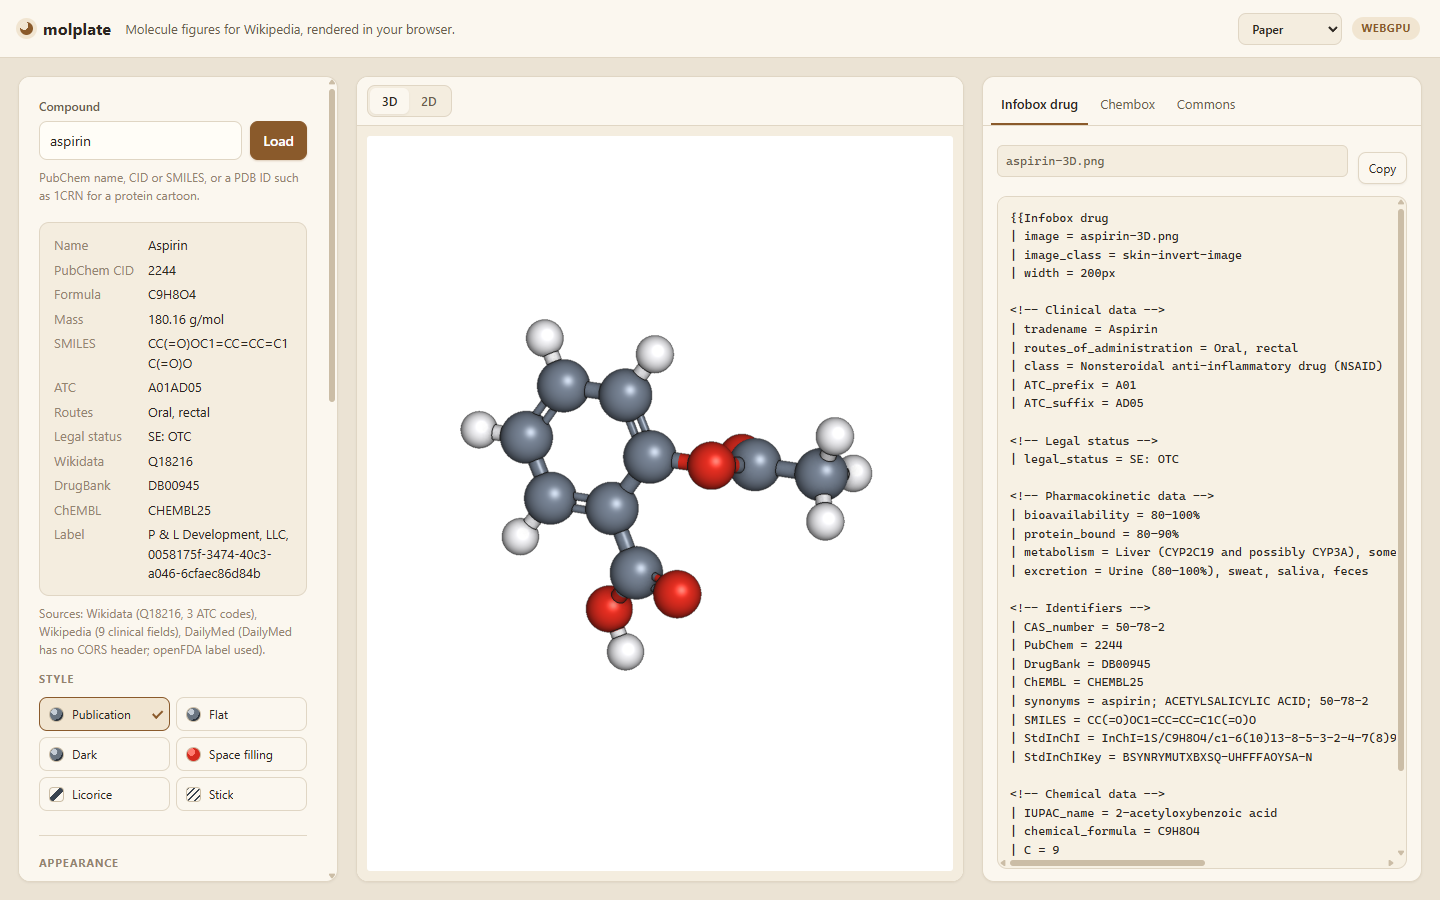
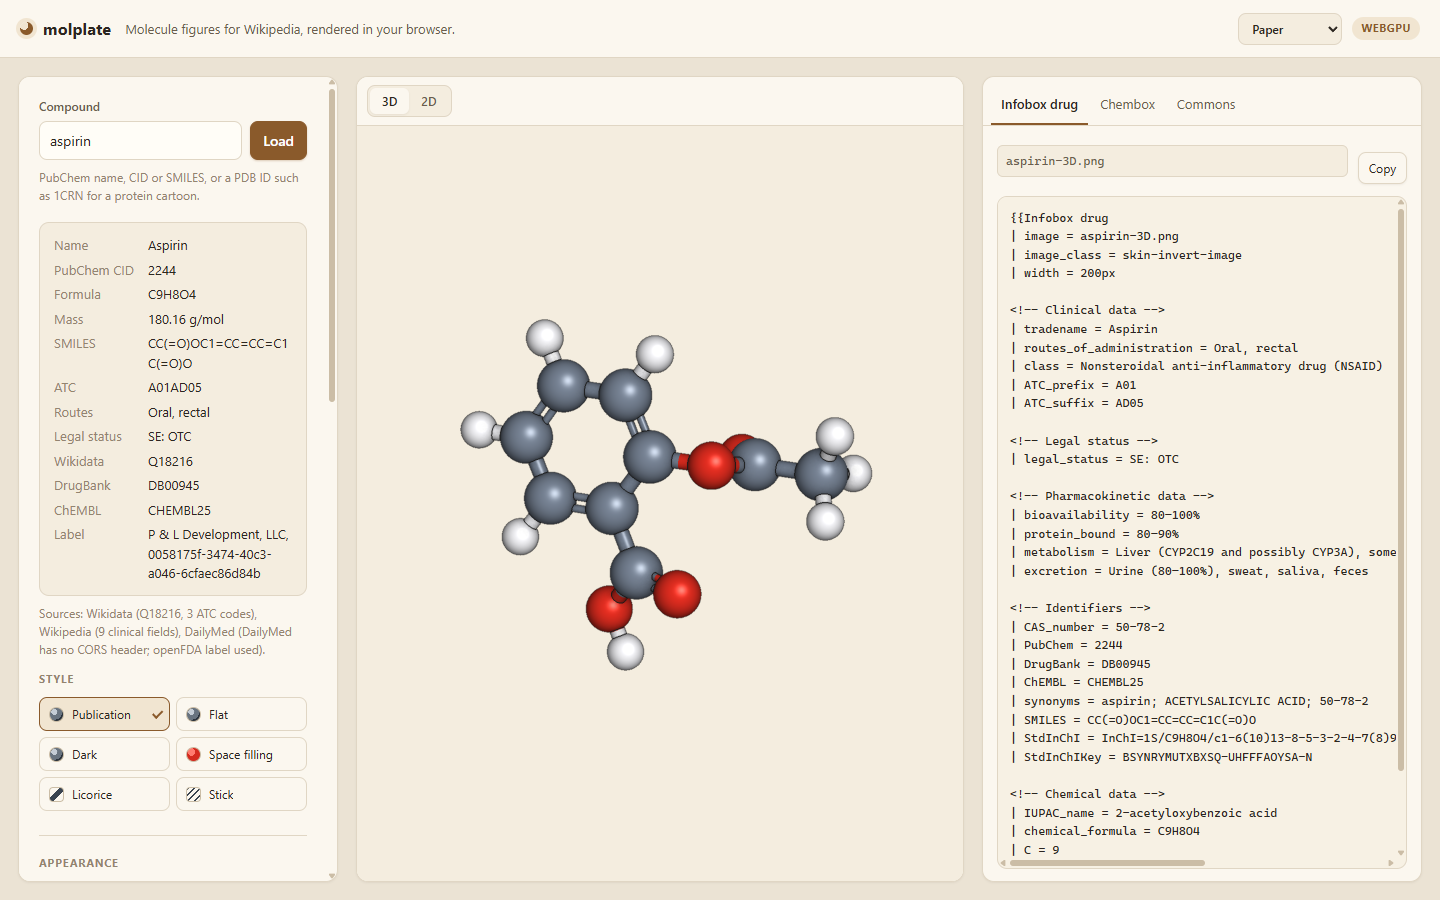
Paint the stage with the theme tint
Keep the export background separate from the live stage.
Remove the 2D background rectangle.
Recolour the dark 2D bonds in the inline copy.

diff --git a/web/src/renderer.ts b/web/src/renderer.ts
@@ -71,7 +71,11 @@ interface PatinaeViewer {
   init(): Promise<void>;
   loadData(data: Uint8Array, name: string, format: string): Receipt;
   execute(command: string): Promise<Receipt>;
-  exportPng(options: { width?: number; height?: number; transparent?: boolean }): Promise<Blob>;
+  exportPng(options: {
+    width?: number;
+    height?: number;
+    transparent?: boolean;
+  }): Promise<Blob>;
   countAtoms(selection?: string): number;
   getSequenceData(): { chain_id: string; residues: unknown[] }[];
   destroy(): void;
@@ -265,6 +269,8 @@ export class Renderer {
   // Last values of the settings whose change reloads a shader or a pipeline. They start
   // at the renderer's defaults, so the first look does not reload a shader for nothing.
   private lastBackground = "";
+  /** Theme tint for the live stage; the export keeps its own background. */
+  private stageTint: string | null = null;
   private lastShading = "classic";
   private lastAo = false;
   private lastSilhouettes = false;
@@ -399,7 +405,7 @@ export class Renderer {
    */
   async applyAppearance(look: LookSpec): Promise<void> {
     const appearance = look.appearance;
-    await this.setBackgroundHex(appearance.background);
+    await this.setBackgroundHex(this.stageTint ?? appearance.background);
 
     await this.run(`set stick_transparency, ${decimal(appearance.stick_transparency)}`);
     await this.run(`set sphere_transparency, ${decimal(appearance.sphere_transparency)}`);
@@ -457,6 +463,18 @@ export class Renderer {
   /** `"perspective"` or `"orthographic"`. patinae spells the latter `orthoscopic`. */
   async setProjection(mode: string): Promise<void> {
     await this.run(`set orthoscopic, ${mode === "orthographic" ? 1 : 0}`);
+  }
+
+  /**
+   * Set the live stage background to the active theme tint.
+   *
+   * The patinae surface is opaque, so the view cannot be alpha-transparent. This colour
+   * matches the page behind the canvas, which gives the same visual result.
+   */
+  setStageTint(hex: string): void {
+    if (this.stageTint === hex) return;
+    this.stageTint = hex;
+    void this.setBackgroundHex(hex).catch(() => undefined);
   }
 
   /** Set the background from a colour input value. */
@@ -552,11 +570,31 @@ export class Renderer {
    * With only a width, its aspect follows the *live* canvas, so callers that care about
    * the shape pass both dimensions.
    */
-  async exportPng(options: { width: number; height: number; transparent: boolean }): Promise<Blob> {
-    // A build task may still be finishing; a couple of frames is what makes the
-    // difference between the new scene and the previous one in the image.
-    await frames(SETTLE_FRAMES);
-    return this.viewer.exportPng(options);
+  async exportPng(options: {
+    width: number;
+    height: number;
+    transparent: boolean;
+    background: string;
+  }): Promise<Blob> {
+    // The live stage is painted with the theme tint. The export uses the figure's own
+    // background, so swap it in for the render and restore the tint afterwards.
+    const stage = this.stageTint;
+    await this.setBackgroundHex(options.transparent ? "#000000" : options.background);
+    try {
+      // A build task may still be finishing; a couple of frames is what makes the
+      // difference between the new scene and the previous one in the image.
+      await frames(SETTLE_FRAMES);
+      return await this.viewer.exportPng({
+        width: options.width,
+        height: options.height,
+        transparent: options.transparent,
+      });
+    } finally {
+      if (stage !== null) {
+        this.stageTint = null;
+        this.setStageTint(stage);
+      }
+    }
   }
 
   destroy(): void {

diff --git a/web/src/main.ts b/web/src/main.ts
@@ -38,7 +38,7 @@ import { bindKeyboard } from "./keyboard.js";
 import { enrichCompound, LookupError, loadCompound } from "./pubchem.js";
 import { ProteinError, loadProtein, pdbIdOf } from "./protein.js";
 import { Renderer, RendererUnavailable } from "./renderer.js";
-import { bindTheme } from "./theme.js";
+import { bindTheme, stageTint } from "./theme.js";
 import "./styles.css";
 import "./stage.css";
 
@@ -97,6 +97,7 @@ async function boot(): Promise<void> {
   // is in use, and the note explains what a figure needs, rather than implying a
   // fallback that does not exist.
   dom.engine.textContent = "WebGPU";
+  state.viewer.setStageTint(stageTint());
   applyMode();
 
   // Compile the cartoon pipelines before the first request. The first cartoon frame
@@ -621,6 +622,9 @@ function withTimeout<T>(promise: Promise<T>, ms: number, message: string): Promi
 }
 
 bindTheme();
+document.addEventListener("themechange", () => {
+  state.viewer?.setStageTint(stageTint());
+});
 bindAppearance();
 bindExport();
 bindKeyboard({

diff --git a/web/src/stage.css b/web/src/stage.css
@@ -73,10 +73,10 @@
   width: 100%;
   min-height: 0;
   padding: 10px;
-  background: var(--surface-2);
+  background: var(--stage-tint);
 }
 
-/* The 2D drawing scales to the stage without cropping, on a paper-like card. */
+/* The 2D drawing scales to the stage without cropping, on the theme tint. */
 .depiction {
   flex: 1;
   min-height: 0;
@@ -84,16 +84,23 @@
   place-items: center;
   padding: 18px;
   overflow: auto;
-  background: var(--surface-2);
+  background: var(--stage-tint);
 }
 
 .depiction svg {
   max-width: 100%;
   max-height: 100%;
   height: auto;
-  border-radius: 3px;
-  background: #ffffff;
-  box-shadow: var(--shadow-2);
+  background: transparent;
+}
+
+/* RDKit draws black bonds and black atom labels. On a dark tint they become the ink. */
+[data-theme="dark"] .depiction svg path[style*="stroke:#000000"] {
+  stroke: var(--ink) !important;
+}
+
+[data-theme="dark"] .depiction svg path[fill="#000000"] {
+  fill: var(--ink) !important;
 }
 
 .stage canvas {

diff --git a/web/src/rdkit.ts b/web/src/rdkit.ts
@@ -12,7 +12,7 @@ interface RdkitMol {
   has_coords(): number;
   remove_hs_in_place(): boolean;
   set_new_coords(useCoordGen?: boolean): boolean;
-  get_svg(width: number, height: number): string;
+  get_svg_with_highlights(details: string): string;
   delete(): void;
 }
 
@@ -96,7 +96,10 @@ export async function depictWithRdkit(
     // PubChem records carry explicit hydrogens; a skeletal drawing keeps them implicit.
     mol.remove_hs_in_place();
     mol.set_new_coords(true);
-    return mol.get_svg(width, height);
+    // No white rectangle: the page tint shows through the drawing.
+    return mol.get_svg_with_highlights(
+      JSON.stringify({ width, height, clearBackground: false }),
+    );
   } finally {
     mol.delete();
   }

diff --git a/web/src/theme.ts b/web/src/theme.ts
@@ -31,6 +31,16 @@ function resolved(choice: ThemeChoice): ThemeName {
 
 function apply(choice: ThemeChoice): void {
   document.documentElement.dataset.theme = resolved(choice);
+  // The stage canvas cannot read CSS, so it listens for this event.
+  document.dispatchEvent(new CustomEvent("themechange"));
+}
+
+/** The colour behind the figure, from the active theme. The 3D canvas copies it. */
+export function stageTint(): string {
+  const value = getComputedStyle(document.documentElement)
+    .getPropertyValue("--stage-tint")
+    .trim();
+  return value === "" ? "#ffffff" : value;
 }
 
 /** Wire the picker and the OS preference. A stored choice wins over the OS. */

diff --git a/web/src/styles.css b/web/src/styles.css
@@ -11,6 +11,7 @@
   --surface: #ffffff;
   --surface-2: #f5f7fa;
   --surface-3: #eceff4;
+  --stage-tint: #f5f7fa;
   --field: #ffffff;
   --canvas: #f1f4f8;
   --code: #fbfcfe;
@@ -39,6 +40,7 @@
   --surface: #131a22;
   --surface-2: #0f151c;
   --surface-3: #1b242e;
+  --stage-tint: #0f151c;
   --field: #0d131a;
   --canvas: #090d12;
   --code: #0c1218;
@@ -64,6 +66,7 @@
   --surface: #fbf7ef;
   --surface-2: #f4eddf;
   --surface-3: #ece2d1;
+  --stage-tint: #f4eddf;
   --field: #fffdf7;
   --canvas: #ebe3d4;
   --code: #f7f1e4;

diff --git a/web/index.html b/web/index.html
@@ -81,7 +81,7 @@
               </select>
             </div>
             <input id="gradient-bottom" type="color" value="#dfe7f2" aria-label="Gradient end colour" hidden />
-            <p class="hint">A gradient applies to the exported PNG. The live view keeps the solid colour.</p>
+            <p class="hint">The background sets the exported PNG. The stage shows the theme tint.</p>
           </div>
 
           <div class="control">

diff --git a/web/src/figure.ts b/web/src/figure.ts
@@ -107,6 +107,7 @@ async function exportPng(): Promise<void> {
       width: renderWidth,
       height: renderHeight,
       transparent: transparent || gradient !== null,
+      background: state.look?.appearance.background ?? dom.background.value,
     });
     const rendered = new Uint8Array(await blob.arrayBuffer());
     const [red, green, blue] = hexToBytes(state.look?.appearance.background ?? dom.background.value);

diff --git a/crates/molplate_core/src/depict.rs b/crates/molplate_core/src/depict.rs
@@ -259,7 +259,6 @@ pub fn depiction_svg(text: &str, name: &str, options: DepictionOptions) -> Resul
         escape_xml(name)
     );
     let _ = writeln!(svg, "<title>{}</title>", escape_xml(name));
-    let _ = writeln!(svg, r##"<rect width="{width}" height="{height}" fill="#ffffff"/>"##);
     let _ = writeln!(
         svg,
         r##"<g stroke="#1a1a1a" stroke-width="{bond_width:.2}" stroke-linecap="round" stroke-linejoin="round" fill="none">"##

diff --git a/docs/SPEC.md b/docs/SPEC.md
@@ -29,7 +29,7 @@ which allow cross-origin requests; nothing is uploaded anywhere.
 | Lookup by name, CID or SMILES | Name and CID resolve directly; a SMILES is resolved through PubChem's structure search, so only compounds PubChem knows work |
 | Protein lookup | A four-character PDB ID (for example `1CRN`) or a `pdb:` prefix fetches the entry from RCSB and draws a cartoon |
 | 3D structure | PubChem's 3D record; a compound without one falls back to its 2D record and says so |
-| 2D depiction | RDKit's MinimalLib draws the skeletal SVG with canonical layout, stereo and element colours. The 7.39 MB module loads on first 2D use. A Rust V2000 parser is the fallback |
+| 2D depiction | RDKit's MinimalLib draws the skeletal SVG with canonical layout, stereo and element colours. The SVG has no background. The 7.39 MB module loads on first 2D use. A Rust V2000 parser is the fallback |
 | Styles | Publication, Flat and Dark finishes of ball-and-stick; space filling, licorice and stick; protein cartoons by secondary structure or chain |
 | Appearance | Background, stick and sphere size, transparency, ambient and direct light, specular, ambient occlusion, outline, depth cue, per-element colour overrides |
 | Navigation | Viewer's own mouse controls, zoom buttons, re-frame, and keyboard shortcuts |
@@ -39,7 +39,7 @@ which allow cross-origin requests; nothing is uploaded anywhere.
 | `{{Chembox}}` | Nested sections: identifiers, properties, pharmacology, hazards |
 | Commons | File name, `{{Information}}` plus licence block, pre-filled upload URL; the licence follows the structure kind |
 | Keyboard | `Ctrl+Enter` load, `2`/`3` view, `E` export, `F` frame, `+`/`-` zoom, `/` focus, `?` help |
-| Theme | Light, Paper and Dark, plus System. The choice persists and applies before the first paint |
+| Theme | Light, Paper and Dark, plus System. The choice persists and applies before the first paint. The stage follows the theme tint |
 | Graphics | WebGPU only. There is no WebGL2 fallback, so a browser without an adapter gets an explanation instead of a lesser image |
 
 ## Not in v1
@@ -51,6 +51,7 @@ which allow cross-origin requests; nothing is uploaded anywhere.
 | Ray-traced export | patinae's ray tracer is a native cdylib plugin and is not in the wasm build | A wasm ray tracer, or a server-side render |
 | MSAA in the live view | patinae has no MSAA; FXAA and a 2x supersampled canvas are the substitutes | A renderer change, not an app change |
 | Live background gradient | The canvas surface is opaque, so a CSS gradient cannot show through | Renderer support for a gradient clear, or an accept of the export-only option |
+| True alpha in the live view | The patinae surface is opaque. The stage paints the theme tint instead | Renderer support for an alpha surface, or an accept of the tint |
 | Direct DailyMed reads | The DailyMed service sends no CORS header, so the browser cannot read it | A proxy, or an upstream CORS header; openFDA serves the same SPL labels today |
 | Protein 2D or sequence view | A cartoon is the useful figure for an article | A sequence panel and a depiction path |
 | Element labels in 3D by symbol | The renderer's label expression has no element field; atom names are the substitute | A renderer label expression, or browser-side projection |
@@ -95,8 +96,9 @@ bottom margin from the Å per pixel that the camera reports through `get_view`.
 ### Depiction (RDKit → SVG)
 
 `depictWithRdkit(sdf, width, height)` calls RDKit's `get_mol`, removes the explicit
-hydrogens, runs `set_new_coords` and returns `get_svg`. The 7.39 MB MinimalLib loads on
-first 2D use from `web/public/vendor/rdkit`.
+hydrogens, runs `set_new_coords` and calls `get_svg_with_highlights` with
+`clearBackground: false`. The result has no background rectangle. The 7.39 MB MinimalLib
+loads on first 2D use from `web/public/vendor/rdkit`.
 
 `depictSvg(sdf, width, margin, labels, monochrome, name)` is the Rust fallback. It parses
 a V2000 mol block and returns an SVG. Hydrogens are implicit. Heteroatoms are always
@@ -132,7 +134,7 @@ scripts/dev-env.ps1     toolchain paths for this workstation
 * The page loads, accepts `aspirin`, shows a molecule, and every tab produces markup that
   parses as balanced templates.
 * Export at 1600 px writes a 1600 px wide PNG with 6 percent margins and no clipped atoms.
-* The 2D view draws an RDKit SVG under 100 KB and downloads it.
+* The 2D view draws a transparent RDKit SVG under 100 KB and downloads it.
 * A 1CRN lookup draws a cartoon coloured by secondary structure in under three seconds.
 * The same compound loaded by name, CID and SMILES exports byte-identical images.
 * A browser without WebGPU explains itself. The 2D SVG and the markup still work.

diff --git a/docs/UPGRADE-REPORT.md b/docs/UPGRADE-REPORT.md
@@ -63,10 +63,14 @@ engine. The project notes named it, and it is the right tool for depiction.
 
 ![The 2D mode with aspirin, drawn by RDKit](upgrade/after-2d.png)
 
-Measured: `aspirin-2D.svg` is 8757 bytes and the inline SVG is 8821 characters. Oxygen is
-`#FF0000` and carbon is black. The file downloads from the same button that exports the
-PNG. The first 2D open shows the engine load in the stage overlay. The Rust fallback is
-covered by six integration tests and the core suite.
+Measured: `aspirin-2D.svg` is 8652 bytes and the inline SVG is 8716 characters. It has no
+background rectangle, so the theme tint shows through. Oxygen is `#FF0000` and carbon is
+black. The file downloads from the same button that exports the PNG. In the dark theme the
+inline bonds take the theme ink; the downloaded file keeps black bonds for print. The first
+2D open shows the engine load in the stage overlay. The Rust fallback is covered by six
+integration tests and the core suite.
+
+![The same drawing on the dark theme](upgrade/after-2d-dark.png)
 
 ## B. 3D quality controls
 
@@ -190,12 +194,16 @@ openFDA. The drugbox now emits:
 
 The top bar has a theme picker with Light, Paper, Dark and System. An inline script applies
 the stored choice before the first paint. Light uses cool neutrals, Paper uses warm cream,
-Dark uses a deep slate. The accent is teal in Light and Dark, and copper in Paper. The
-figure keeps its own background, so a white Wikipedia figure stays white in every theme.
+Dark uses a deep slate. The accent is teal in Light and Dark, and copper in Paper. The stage
+background follows the theme. The exported figure keeps its own background, so a white
+Wikipedia figure stays white.
 
 ![The dark theme with aspirin](upgrade/after-dark-ui.png)
 
 ![The paper theme with aspirin](upgrade/after-paper-ui.png)
+
+The patinae surface is opaque, so the stage paints the `--stage-tint` colour instead of
+alpha. The 2D SVG is truly transparent.
 
 The stage has a 3D and 2D switch, and the stage note says which view is live. The style
 picker is a two-column list with a CSS swatch per representation. The appearance panel
@@ -231,13 +239,14 @@ SwiftShader, which removes the hardware adapter this renderer needs.
 | `cargo test -p molplate_core` | 37 unit tests pass |
 | Depiction integration tests | 6 tests pass |
 | `cd web; npm run build` | TypeScript clean, Vite build OK |
-| `node scripts/verify.mjs --url http://localhost:5173/ --headed true --gpu hardware` | OK, 2D SVG 8821 chars, export 1200x1045 at 6 percent |
+| `node scripts/verify.mjs --url http://localhost:5173/ --headed true --gpu hardware` | OK, 2D SVG 8716 chars, export 1200x1045 at 6 percent |
 | `pwsh -File scripts/build-dual.ps1 -NoServe` | classic and current builds OK |
 | Keyboard export | completed, 637313 bytes |
 | Themes | Light, Paper and Dark apply; a stored choice survives a reload |
+| Stage tint | canvas pixel matches the theme: light (245,247,250), dark (15,21,28) |
 | Layout overflow | page scroll width equals the viewport at 1280 and 800 |
 
-Bundle: the page is 43.77 KB of JavaScript and 13.27 KB of CSS. The app's wasm grows from
+Bundle: the page is 44.53 KB of JavaScript and 13.46 KB of CSS. The app's wasm grows from
 531.77 KB to 623.61 KB, and it gzips to 222.40 KB. The 2D engine is a separate 7.39 MB
 wasm, loaded only when 2D opens. The fallback depiction, the composer and the scale bar
 font live in the app wasm. The classic renderer's wasm is 17.6 MB for comparison.
@@ -252,6 +261,8 @@ font live in the app wasm. The classic renderer's wasm is 17.6 MB for comparison
   structures today, so the gap is invisible until a lookup misses.
 * Ray tracing. The ray tracer is a native plugin and is absent from the wasm build.
 * A live background gradient. The canvas is opaque. The gradient is export-only.
+* True alpha in the live 3D view. The patinae surface is opaque, so the stage paints the
+  theme tint. The 2D SVG and the offscreen PNG export can be transparent.
 * A direct DailyMed read. The service sends no CORS header. openFDA supplies the label.
 * 3D atom labels show atom names. The label expression has no element field. For an SDF
   the atom name is the element symbol, so the figure reads `O` and `H`. For a PDB it reads

diff --git a/README.md b/README.md
@@ -11,9 +11,11 @@ It is a static site: no server, no upload, no install.
 
 What it offers:
 
-* **2D and 3D.** RDKit's MinimalLib draws the skeletal SVG, with element colours and
-  stereo. Ball-and-stick, space-filling, licorice, stick and protein cartoons cover 3D.
-* **Three themes.** Light, Paper and Dark, plus System. The choice persists across visits.
+* **2D and 3D.** RDKit's MinimalLib draws the skeletal SVG with no background, plus
+  element colours and stereo. Ball-and-stick, space-filling, licorice, stick and protein
+  cartoons cover 3D.
+* **Three themes.** Light, Paper and Dark, plus System. The choice persists across visits,
+  and the stage follows the theme tint.
 * **Named looks and controls.** Publication, Flat and Dark finishes, plus light, outline,
   ambient occlusion, depth cue, transparency and per-element colour overrides.
 * **Figures, not screenshots.** PNG at exactly 1200, 1600 or 2000 px wide, with a 4 to 9
@@ -22,8 +24,8 @@ What it offers:
   fields, and an openFDA drug label.
 
 The 2D engine is RDKit.js, 7.39 MB, loaded only when the 2D view first opens. Until then
-the page stays at about 624 KB of wasm. A Rust V2000 parser is the fallback if the RDKit
-module cannot load.
+the page stays at about 624 KB of wasm. The drawing has no background, so the stage tint
+shows through. A Rust V2000 parser is the fallback if the RDKit module cannot load.
 
 ![molplate rendering aspirin, with the Commons markup beside it](docs/screenshot.png)
 
